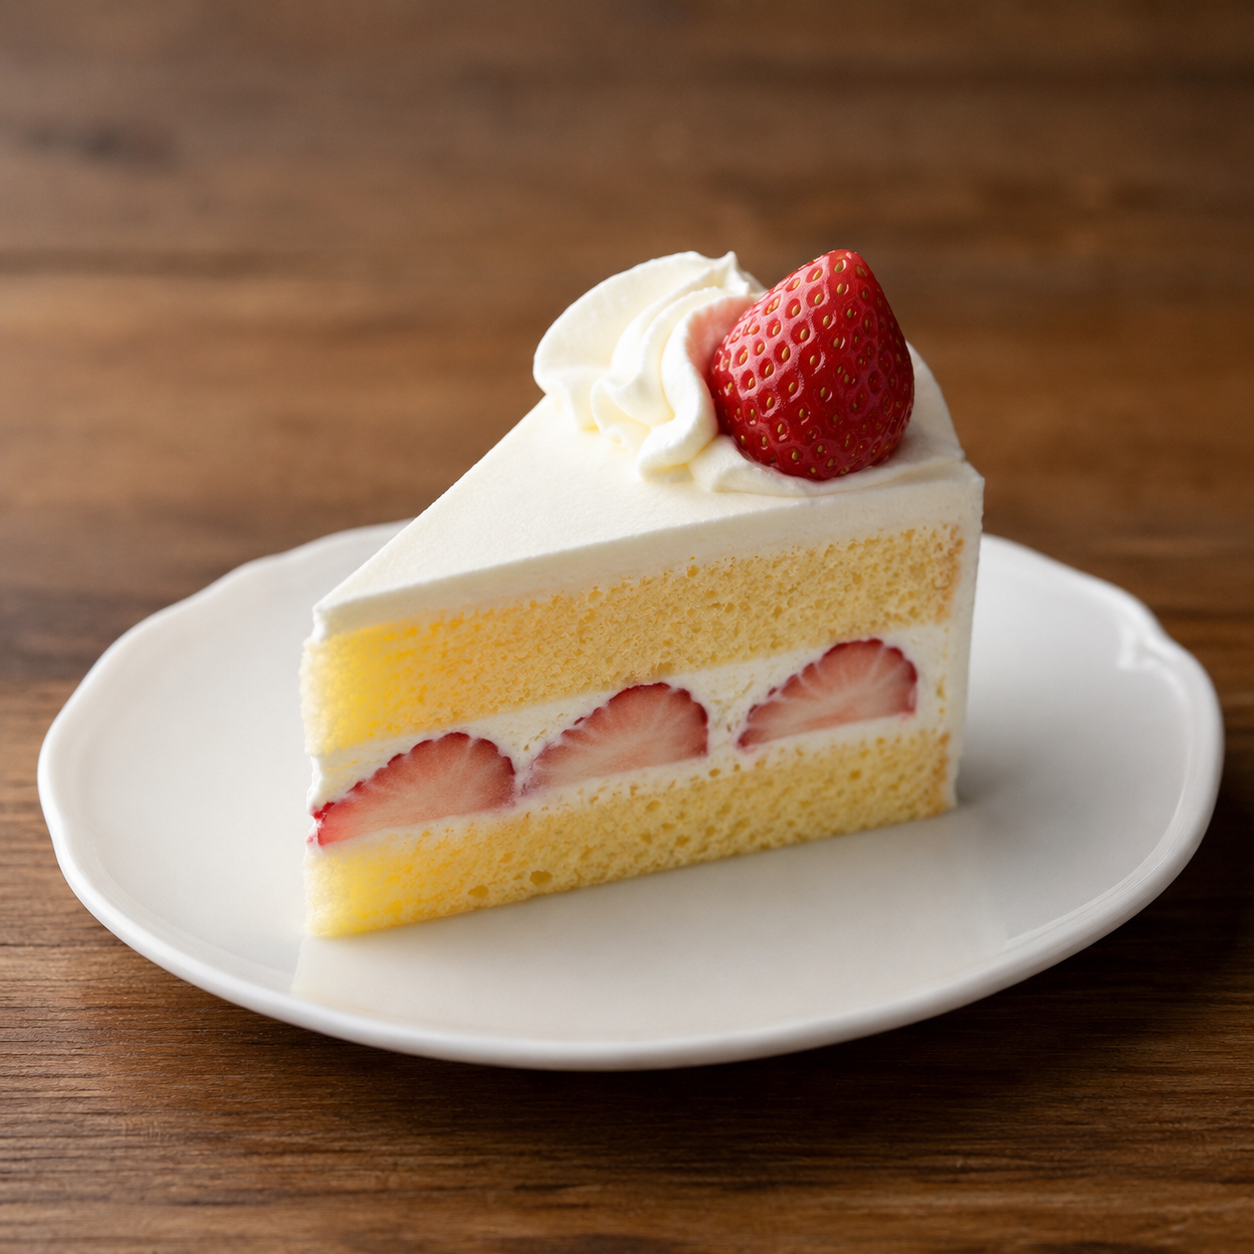
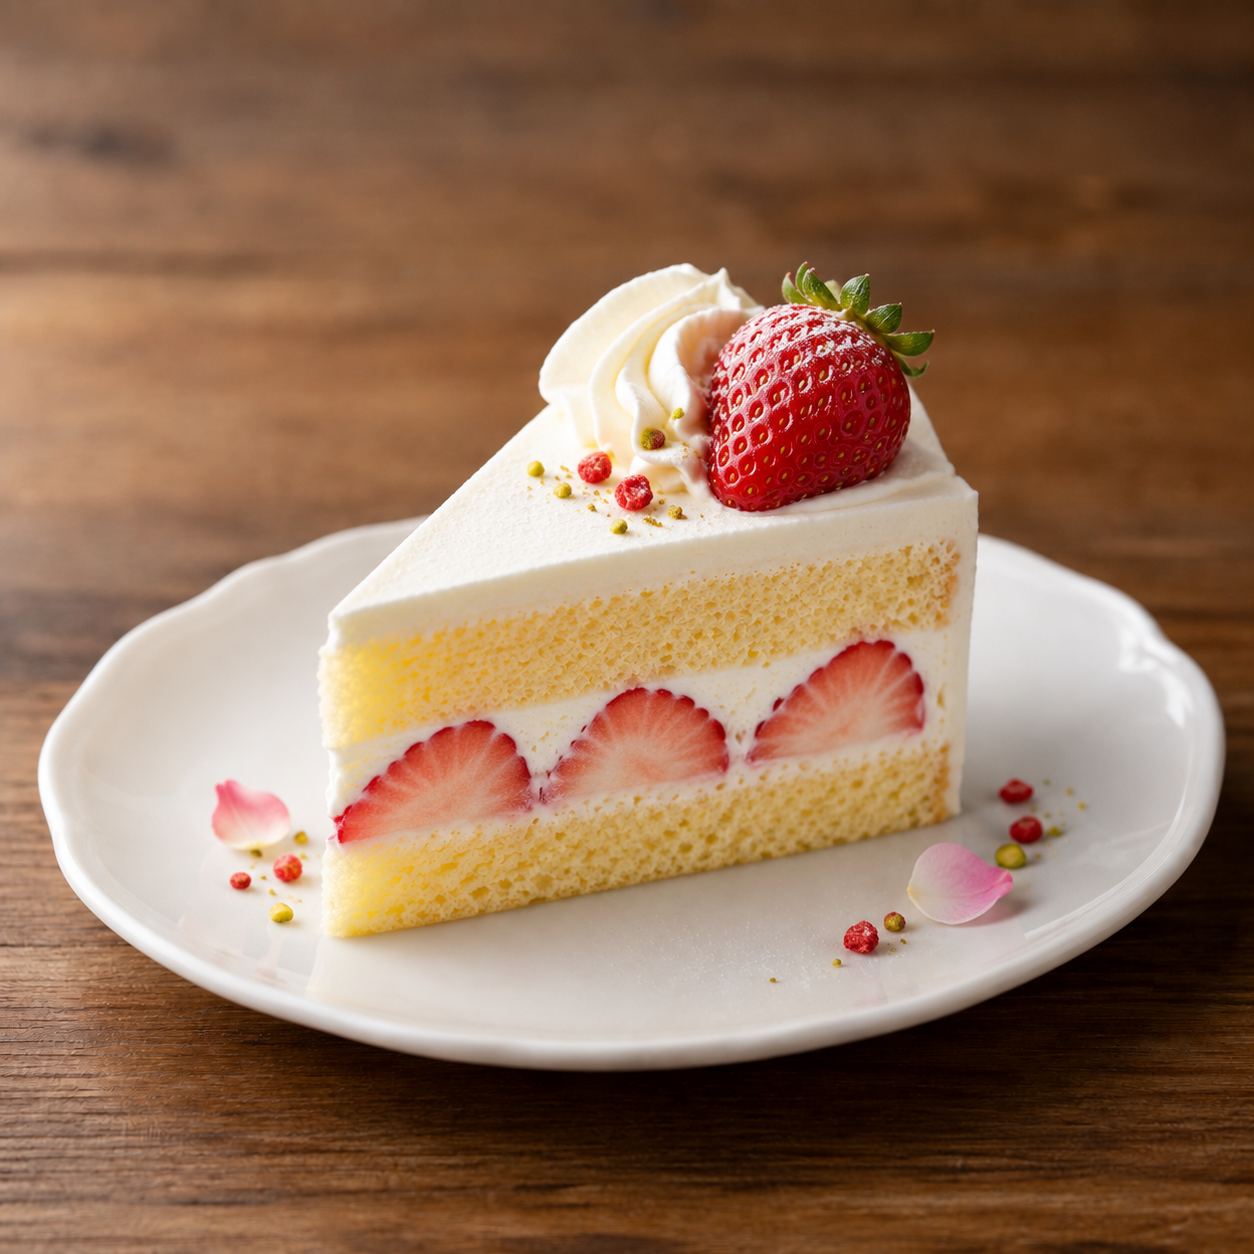
個数によってproducts__cardのボタンが変化する処理を追加、CSSを微調整、productsの画像を追加・一部変更

diff --git a/products.html b/products.html
@@ -55,7 +55,7 @@
                   <button>+</button>
                 </div>
                 <button class="count-reset">
-                  <img src="icons/trash_big.svg">
+                  <img src="icons/trash.svg">
                 </button>
               </div>
             </div>
@@ -120,24 +120,36 @@
       };
 
       const ProductCard = (props) => {
+        const addCartBtn = (
+          <div className="products__btn">
+            <button className="add-cart">カートに追加</button>
+          </div>
+        );
+
+        const counterBtn = (
+          <div className="products__btn select-count">
+            <div className="flex">
+              <button>−</button>
+              <span>{props.count}</span>
+              <button>+</button>
+            </div>
+            <button className="count-reset">
+              <img src="icons/trash.svg" />
+            </button>
+          </div>
+        );
+
         return (
           <div className="products__card">
             <div>
               <img src={props.image} alt="" />
             </div>
             <div>
-              <p>{props.name}</p>
-              <p>{props.price}円</p>
-              <div className="products__btn select-count">
-                <div className="flex">
-                  <button>−</button>
-                  <span>{props.count}</span>
-                  <button>+</button>
-                </div>
-                <button className="count-reset">
-                  <img src="icons/trash_big.svg" />
-                </button>
-              </div>
+              <p >{props.name}</p>
+              <p>￥{Number(props.price).toLocaleString()}</p>
+              {
+                props.count === 0 ? addCartBtn : counterBtn
+              }
             </div>
           </div>
         );
@@ -154,7 +166,7 @@
               const response = await fetch('./products.json');
               const productsData = await response.json();
               setProducts(productsData);
-              setCounts(Object.fromEntries(productsData.map((product) => [product.id, 0])));
+              setCounts(Object.fromEntries(productsData.map((product) => [product.id, 1])));
             } catch (err) {
               console.log('商品データの取得に失敗しました');
             }
@@ -209,18 +221,6 @@
                 </div>
                 <div className="products">
                   {productCards}
-                  <div className="products__card">
-                    <div>
-                      <div className="img">画像</div>
-                    </div>
-                    <div>
-                      <p>商品名</p>
-                      <p>1,450円</p>
-                      <div className="products__btn">
-                        <button className="add-cart">カートに追加</button>
-                      </div>
-                    </div>
-                  </div>
                 </div>
               </div>
             </main>

diff --git a/products.css b/products.css
@@ -116,13 +116,14 @@ main {
 /* 検索・絞り込み */
 .search-form {
   display: flex;
+  align-items: center;
   gap: 10px;
   margin-top: 20px;
 }
 
 .search-form input {
   padding: 0 16px;
-  line-height: 40px;
+  line-height: 35px;
   border: 1px solid gray;
   flex: 1;
 }
@@ -135,9 +136,9 @@ main {
 .search-form button {
   display: inline-block;
   border: none;
-  font-size: 16px;
-  padding: 0 20px;
-  line-height: 40px;
+  font-size: 12px;
+  padding: 0 16px;
+  line-height: 35px;
   color: #fff;
   background: #333;
   border-radius: 4px;
@@ -182,6 +183,7 @@ main {
 /* 商品カード */
 .products__card p {
   margin: 6px 0;
+  font-weight: bold;
 }
 
 .products__btn {
@@ -193,7 +195,7 @@ main {
   width: 100%;
   text-align: center;
   font-size: 14px;
-  line-height: 40px;
+  line-height: 35px;
   border-radius: 50px;
   color: #fff;
   background: #333;
@@ -205,7 +207,6 @@ main {
 
 .add-cart:hover {
   background: var(--accent-color);
-  /* color: #333; */
   border: 1px solid var(--accent-color);
 }
 
@@ -219,7 +220,7 @@ main {
   justify-content: space-between;
   border: 1px solid #333;
   border-radius: 50px;
-  line-height: 40px;
+  line-height: 35px;
   box-sizing: border-box;
 }
 
